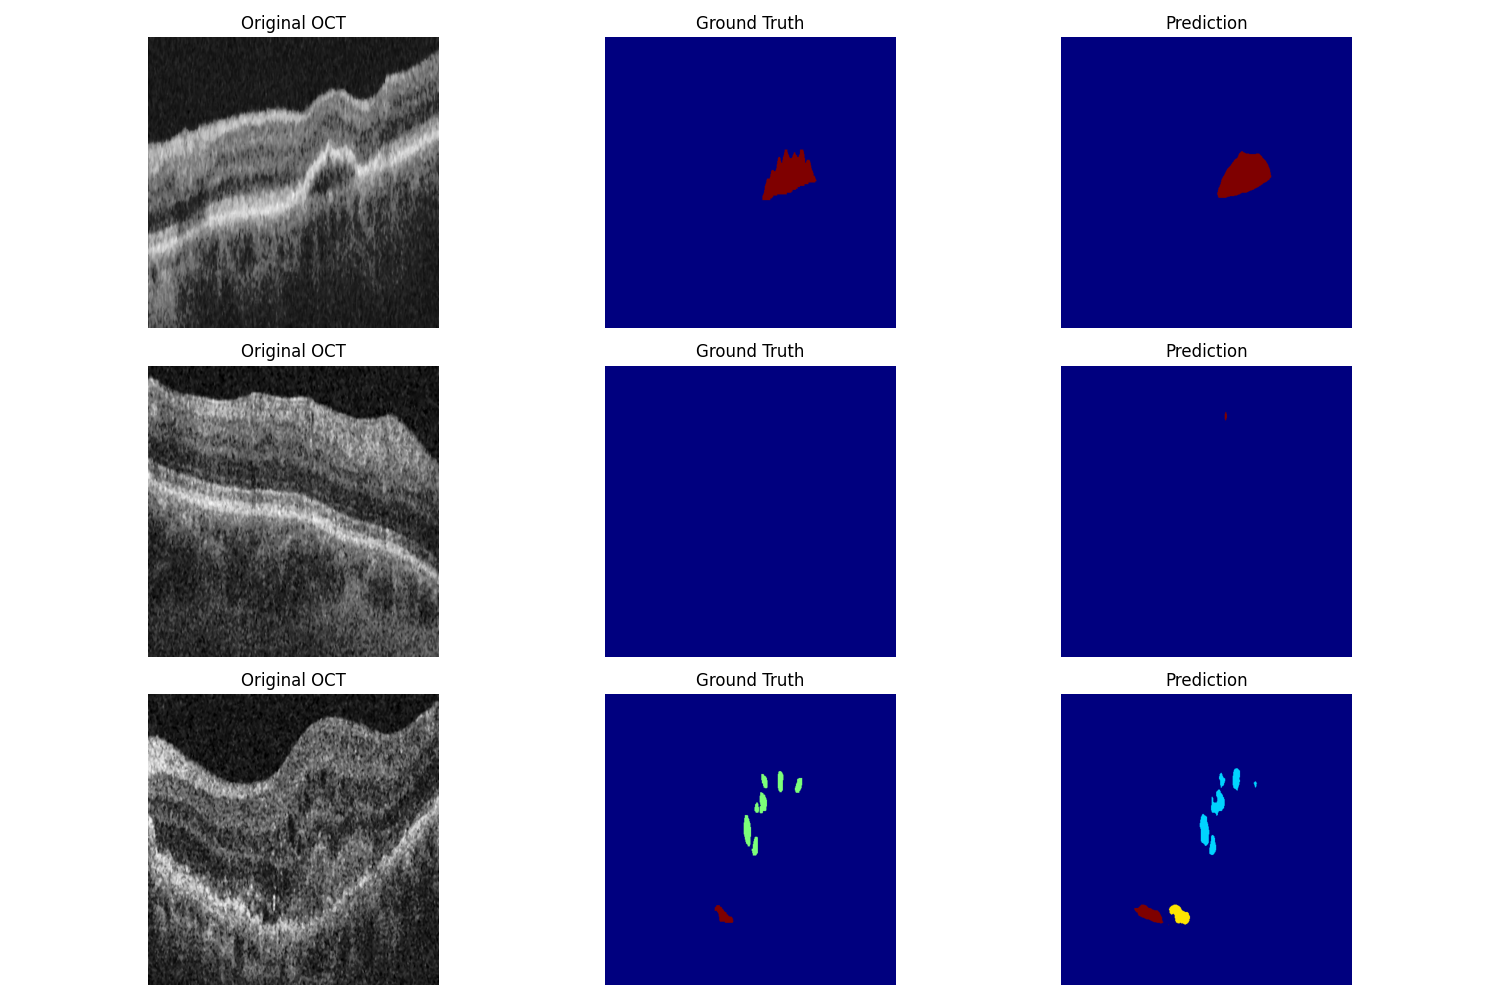
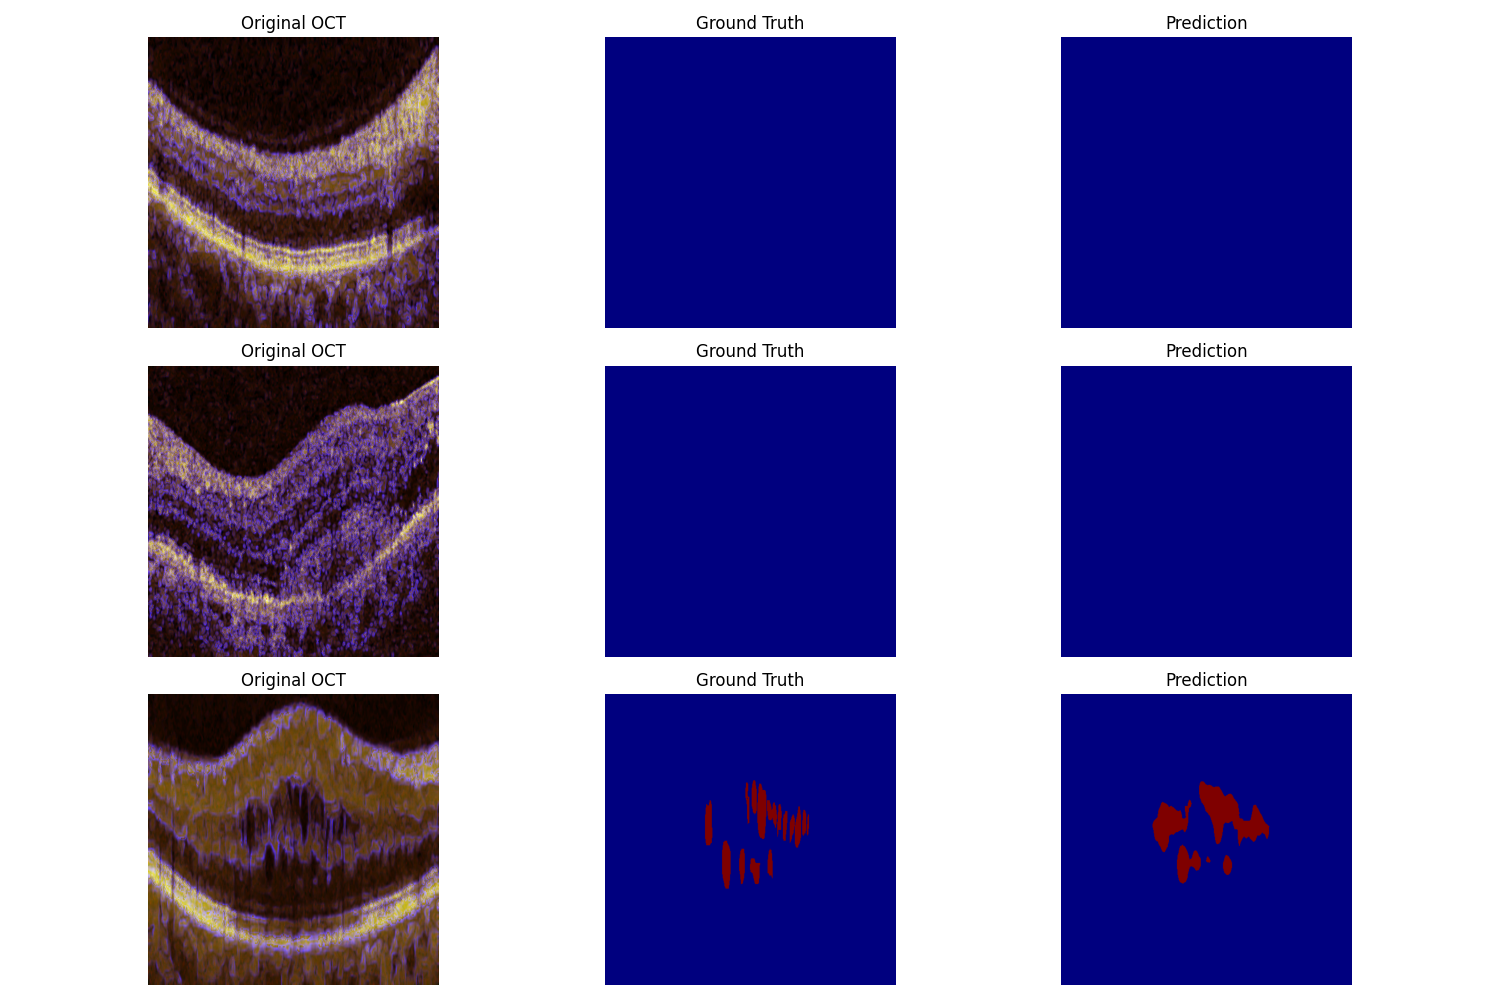
training optimization

diff --git a/eval.py b/eval.py
@@ -15,7 +15,8 @@ from dataset import OCTDataset
 IMG_DIR = "data_folder/cropped_images"
 MASK_DIR = "data_folder/cropped_masks"
 MODEL_NAME = "nvidia/segformer-b0-finetuned-ade-512-512"
-CHECKPOINT = "segformer_oct.pth"
+CHECKPOINT = "best_model.pth"
+USE_MULTIMODAL = True
 DEVICE = torch.device("cuda" if torch.cuda.is_available() else "cpu")
 
 # Suppress warnings from sklearn metrics for classes not present in the mask
@@ -36,7 +37,7 @@ model.to(DEVICE).eval()
 
 # transforms
 val_transform = A.Compose([A.Resize(512, 512)])
-ds = OCTDataset(val_imgs, val_masks, processor, transform=val_transform)
+ds = OCTDataset(val_imgs, val_masks, processor, transform=val_transform, use_multimodal=USE_MULTIMODAL)
 loader = DataLoader(ds, batch_size=1, shuffle=True)
 
 # Metrics accumulation
@@ -55,7 +56,6 @@ for i, batch in enumerate(tqdm(loader)):
     with torch.no_grad():
         outputs = model(pixel_values=pixel_values)
         logits = outputs.logits
-        # resize logits to match original image size
         upsampled_logits = torch.nn.functional.interpolate(
             logits, size=(512, 512), mode="bilinear", align_corners=False
         )
@@ -64,7 +64,6 @@ for i, batch in enumerate(tqdm(loader)):
     all_preds.append(pred.flatten())
     all_labels.append(labels.flatten())
 
-    # plot only first 3
     if vis_count < 3:
         plt.subplot(3, 3, vis_count*3 + 1)
         plt.imshow(orig_img)
@@ -91,13 +90,11 @@ print("\nCalculating metrics...")
 all_preds = np.concatenate(all_preds)
 all_labels = np.concatenate(all_labels)
 
-# Assuming 4 classes based on train.py
 num_classes = 4 
 ious = []
 dices = []
 
 for c in range(num_classes):
-    # Only calculate if the class is present in the ground truth
     if np.any(all_labels == c):
         iou = jaccard_score(all_labels == c, all_preds == c, zero_division=1.0)
         dice = f1_score(all_labels == c, all_preds == c, zero_division=1.0)

diff --git a/train.py b/train.py
@@ -54,8 +54,8 @@ processor.do_reduce_labels = False
 train_ds = OCTDataset(train_imgs, train_masks, processor, transform=train_transform, use_multimodal=USE_MULTIMODAL)
 val_ds = OCTDataset(val_imgs, val_masks, processor, transform=val_transform, use_multimodal=USE_MULTIMODAL)
 
-train_loader = DataLoader(train_ds, batch_size=BATCH_SIZE, shuffle=True)
-val_loader = DataLoader(val_ds, batch_size=BATCH_SIZE)
+train_loader = DataLoader(train_ds, batch_size=BATCH_SIZE, shuffle=True, num_workers=4, pin_memory=True)
+val_loader = DataLoader(val_ds, batch_size=BATCH_SIZE, num_workers=4, pin_memory=True)
 
 model = SegformerForSemanticSegmentation.from_pretrained(
     MODEL_NAME, 
@@ -193,5 +193,4 @@ for epoch in range(EPOCHS):
 total_time = time.time() - start_time
 print(f"\nTraining complete in {str(timedelta(seconds=int(total_time)))}")
 
-# save
 torch.save(model.state_dict(), "segformer_oct.pth")

diff --git a/plan.md b/plan.md
@@ -9,15 +9,17 @@
 ## 2. Wybór i Implementacja Architektury
 - [x] Implementacja modelu **SegFormer (B0)** (wykorzystanie transformerów dla globalnych zależności).
 - [ ] Eksperyment z większymi wariantami (np. SegFormer-B2) dla lepszej precyzji.
-- [ ] Konfiguracja multi-channel: dodanie `edge_map_images` jako dodatkowego kanału wejściowego.
+- [x] Konfiguracja multi-channel: dodanie `edge_map_images` i `denoised_images` jako kanałów wejściowych (R: Orig, G: Denoised, B: Edge).
 
 ## 3. Funkcja Straty i Optymalizacja
 - [x] Implementacja **Hybrid Loss**: $Loss = 0.5 \cdot CE + 0.5 \cdot DiceLoss$.
 - [x] Dobór optymalizatora: AdamW z LR 1e-4.
-- [ ] Implementacja **Focal Loss** w celu lepszej walki z przewagą tła (background imbalance).
+- [x] Implementacja **Weighted Focal Loss** w celu walki z przewagą tła i słabym wynikiem Class 1 (Waga 2.0 dla IRF).
+- [x] Optymalizacja prędkości: `num_workers=4`, `pin_memory=True`.
 
 ## 4. Metryki Ewaluacji
 - [x] Implementacja skryptu do obliczania ilościowych metryk.
+- [x] Implementacja walidacji mIoU w pętli treningowej.
 - [x] Baseline Results (SegFormer-B0):
     - mIoU: 0.7260, Mean Dice: 0.8321
     - Class 1 (IRF) IoU: 0.5730 (Priorytet poprawy)
@@ -26,8 +28,9 @@
 - [ ] HD95 (Hausdorff Distance) dla oceny precyzji obrysów.
 
 ## 5. Trenowanie i Walidacja
-- [x] Uruchomienie pierwszej pętli uczenia (10 epok).
-- [ ] Wdrożenie **Focal Loss** lub **Weighted Cross Entropy** aby podbić wyniki Class 1.
+- [x] Uruchomienie pierwszej pętli uczenia (Baseline).
+- [x] Wdrożenie **Focal Loss** z wagami klasowymi.
+- [x] Automatyczne zapisywanie najlepszego modelu (`best_model.pth`).
 - [ ] Wydłużenie treningu do 30-50 epok z Learning Rate Schedulerem.
 
 

diff --git a/README.md b/README.md
@@ -61,3 +61,9 @@ Zamiast MAE. Mierzy największą odległość między konturem predykcji a kontu
 
 
 Zastosowanie Focal Loss w miejsce standardowej Cross-Entropy umożliwia skuteczną detekcję mikro-zmian (HRF), które często są pomijane ze względu na dużą dysproporcję między tłem a obiektem. Z kolei wprowadzenie metryki HD95 pozwala na precyzyjną ocenę morfologii zmian (kształt cyst IRF/SRF), co stanowi istotną przewagę nad tradycyjnymi metodami opartymi wyłącznie na pomiarze grubości warstw siatkówki.
+
+# Nowe ulepszenia
+- **Multi-Modality**: Wejście 3-kanałowe (R: Oryginał, G: Denoised, B: Edge Map) dla lepszej ekstrakcji cech.
+- **Weighted Focal Loss**: Wagi `[1, 2, 1, 1]` dla wzmocnienia detekcji klasy IRF (Class 1).
+- **Optymalizacja**: Wykorzystanie `num_workers` i `pin_memory` dla przyspieszenia ładowania danych na GPU (np. RX 7900 XT).
+- **Validation Loop**: Pełna walidacja mIoU w trakcie treningu i zapisywanie najlepszego modelu (`best_model.pth`).